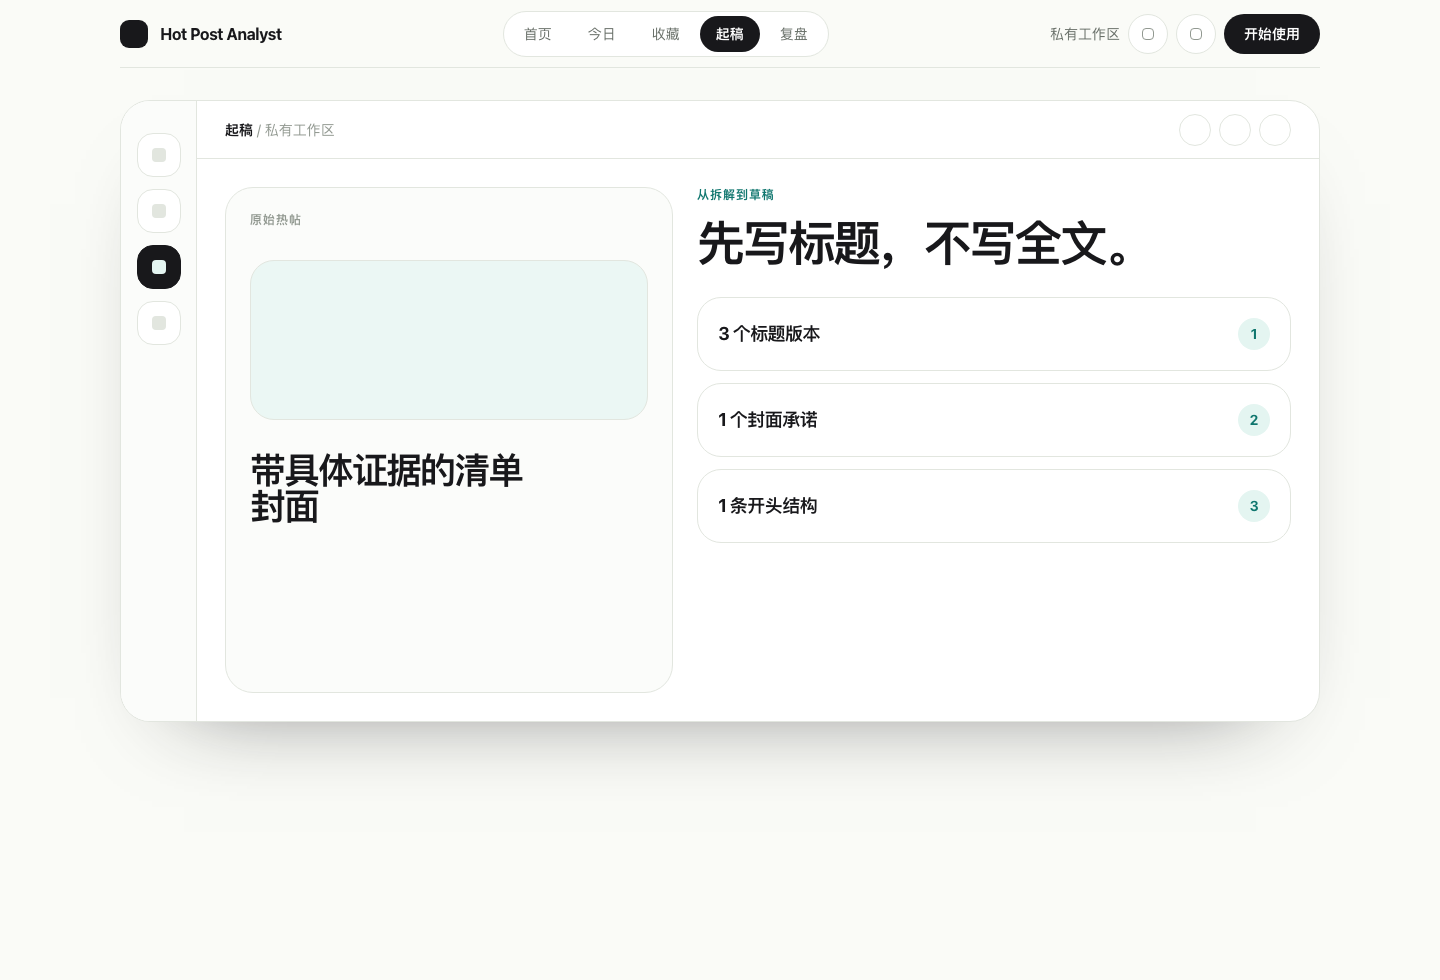
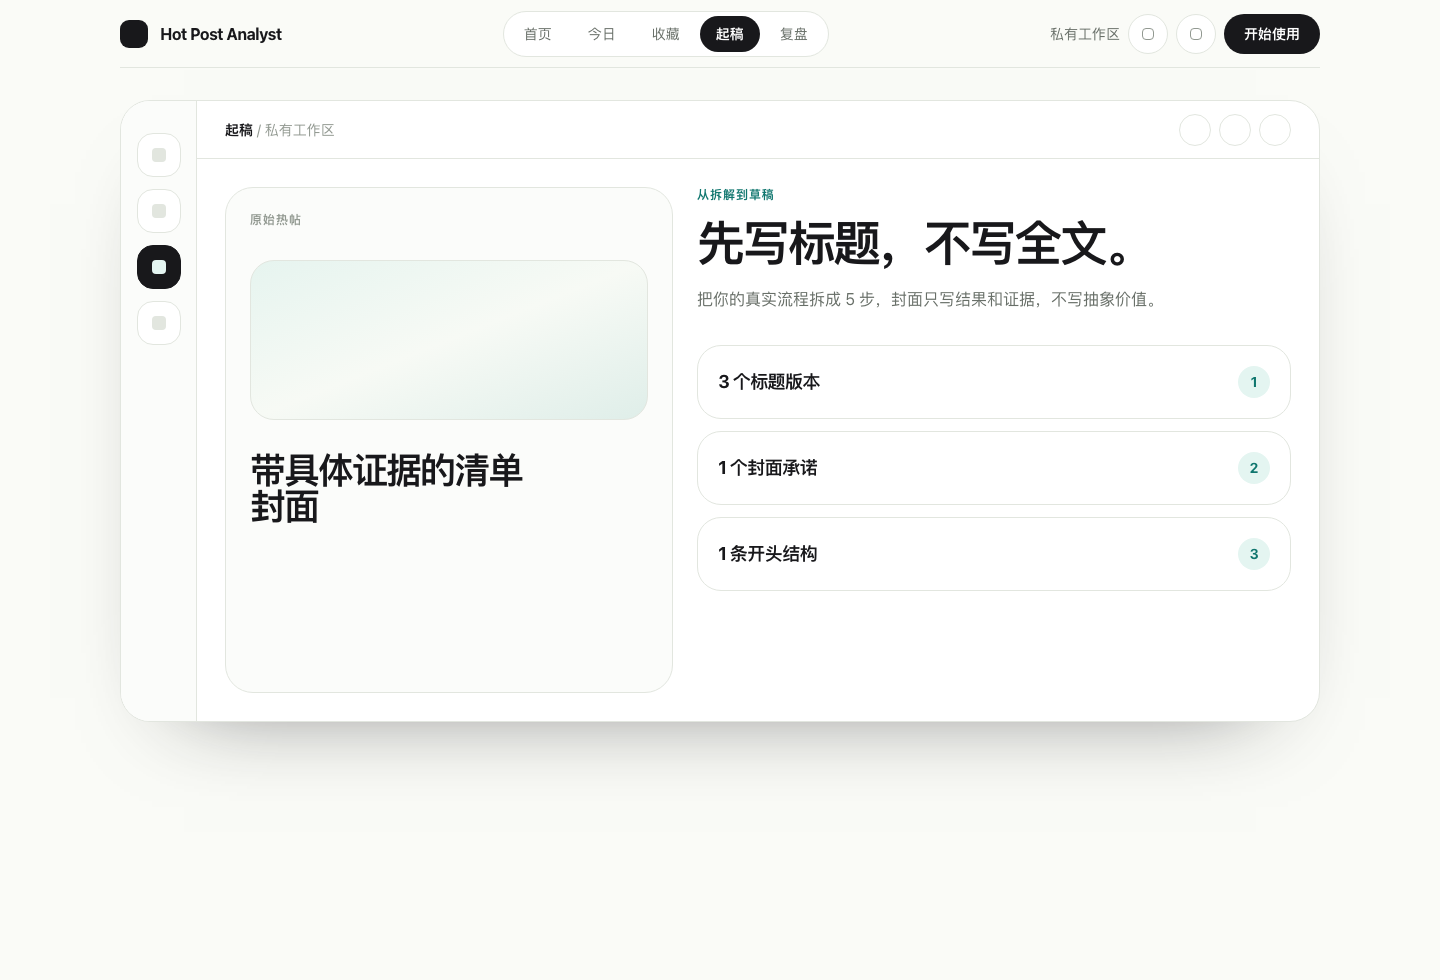
Refine saved page image detail flow

Changed region(s): [[0.5, 0.2755, 0.5938, 0.5816], [0.8438, 0.3061, 0.9062, 0.5816], [0.625, 0.2755, 0.7812, 0.3367]]

diff --git a/src/App.tsx b/src/App.tsx
@@ -1,6 +1,15 @@
 import { useMemo, useState } from 'react';
 
 type ViewId = 'landing' | 'today' | 'saved' | 'draft' | 'review';
+type SavedPost = {
+  id: string;
+  score: string;
+  title: string;
+  signal: string;
+  content: string;
+  draft: string;
+  palette: string;
+};
 
 const views: Array<{ id: ViewId; label: string }> = [
   { id: 'landing', label: '首页' },
@@ -17,9 +26,71 @@ const sidebarItems: Array<{ id: ViewId; label: string }> = [
   { id: 'review', label: '复盘' },
 ];
 
+const savedPosts: SavedPost[] = [
+  {
+    id: 'proof-list',
+    score: '86',
+    title: '带具体证据的清单封面',
+    signal: '封面先给证据，再给步骤，评论区集中追问执行细节。',
+    content: '核心不是清单本身，而是用一个可信证据让用户相信这套方法真的被跑过。',
+    draft: '把你的真实流程拆成 5 步，封面只写结果和证据，不写抽象价值。',
+    palette: 'from-[#e6f4ef] via-[#f7faf5] to-[#dfeee9]',
+  },
+  {
+    id: 'comment-loop',
+    score: '79',
+    title: '评论区反复问同一个问题',
+    signal: '同一个疑问出现多次，说明原帖没有解释清楚，适合补充型复刻。',
+    content: '从评论里提炼用户卡点，用“为什么你一直做不出来”作为开头。',
+    draft: '标题先写疑问，再用 3 个短段回答，最后给一个可执行检查项。',
+    palette: 'from-[#edf2ea] via-[#fbfcf8] to-[#e7efe3]',
+  },
+  {
+    id: 'contrast-cover',
+    score: '74',
+    title: '反差式封面标题组合',
+    signal: '标题制造反差，封面负责给场景，适合改成自己的行业版本。',
+    content: '不要复刻原话，保留“误区到正确动作”的结构就够了。',
+    draft: '写 3 组反差标题：错误动作、真实原因、替代流程。',
+    palette: 'from-[#f0f1e8] via-[#fbfaf4] to-[#e8eee6]',
+  },
+  {
+    id: 'cross-platform',
+    score: '68',
+    title: '同题多平台升温',
+    signal: '同一题材在不同平台出现，说明需求不是偶发流量。',
+    content: '先做轻量复刻，不需要完整长文，用短帖验证保存率。',
+    draft: '把原题变成“本周我会怎么做”的个人流程，先发短版本。',
+    palette: 'from-[#e7f1ef] via-[#f8faf7] to-[#eef2e8]',
+  },
+  {
+    id: 'before-after',
+    score: '82',
+    title: '前后对比封面',
+    signal: '用户能一眼看到变化，适合承载工具、流程、复盘类内容。',
+    content: '对比越具体，越容易被保存。避免“变好”这种模糊承诺。',
+    draft: '封面写前后差异，正文只解释造成变化的 3 个动作。',
+    palette: 'from-[#e5f3ec] via-[#fbfcfa] to-[#edf3e8]',
+  },
+  {
+    id: 'mistake-thread',
+    score: '71',
+    title: '错误清单型内容',
+    signal: '读者容易代入自己的问题，评论区会补充更多反例。',
+    content: '这类内容适合做成“少做什么”，不适合写成长篇教学。',
+    draft: '列出 5 个常见错误，每条只配一个修正动作。',
+    palette: 'from-[#eef4e7] via-[#fbfbf6] to-[#e6efeb]',
+  },
+];
+
 function getInitialView(): ViewId {
   const view = new URLSearchParams(window.location.search).get('view');
   return views.some((item) => item.id === view) ? (view as ViewId) : 'landing';
+}
+
+function getInitialDraft(): SavedPost {
+  const postId = new URLSearchParams(window.location.search).get('post');
+  return savedPosts.find((post) => post.id === postId) ?? savedPosts[0];
 }
 
 function IconButton({ label }: { label: string }) {
@@ -218,50 +289,116 @@ function TodayPage() {
   );
 }
 
-function SavedPage() {
-  const posts = [
-    ['86', '带具体证据的清单封面', '高收藏意图'],
-    ['79', '评论区反复问同一个问题', '强需求信号'],
-    ['74', '反差式封面标题组合', '适合改写'],
-    ['68', '同题多平台升温', '周四前验证'],
-  ];
-
+function ImageTile({ post, onClick }: { post: SavedPost; onClick: (post: SavedPost) => void }) {
   return (
-    <div className="grid gap-7 p-5 sm:p-7 lg:grid-cols-[0.62fr_1.38fr]">
-      <div>
-        <p className="text-xs font-extrabold uppercase tracking-[0.08em] text-accent">只看可行动收藏</p>
-        <h1 className="mt-4 text-[48px] font-bold leading-[0.96] tracking-[-0.055em] text-ink">收藏不是素材库。</h1>
-        <p className="mt-5 max-w-[340px] text-base leading-7 text-muted">这里不展示所有内容，只展示最可能变成下一篇草稿的信号。</p>
+    <button
+      aria-label={`打开 ${post.title}`}
+      className="group aspect-[4/3] overflow-hidden rounded-[26px] border border-transparent bg-white p-2 text-left transition duration-300 ease-out hover:-translate-y-1 hover:scale-[1.018] hover:border-accent/45 hover:shadow-[0_22px_45px_-34px_rgba(24,24,27,0.55)] focus:outline-none focus-visible:border-accent focus-visible:ring-4 focus-visible:ring-accent/10 active:translate-y-0 active:scale-[0.99]"
+      onClick={() => onClick(post)}
+      type="button"
+    >
+      <div className={`relative h-full rounded-[22px] border border-line bg-gradient-to-br ${post.palette}`}>
+        <div className="absolute left-4 top-4 rounded-full bg-white/75 px-3 py-1.5 text-xs font-bold text-accent shadow-[inset_0_1px_0_rgba(255,255,255,0.7)]">
+          {post.score}
+        </div>
+        <div className="absolute bottom-4 left-4 right-4 h-14 rounded-2xl bg-white/62 shadow-[inset_0_1px_0_rgba(255,255,255,0.7)] transition group-hover:bg-white/78" />
       </div>
+    </button>
+  );
+}
 
-      <div className="grid gap-3">
-        {posts.map(([score, title, tag]) => (
-          <article className="grid grid-cols-[56px_1fr_auto] items-center gap-4 rounded-3xl border border-line bg-[#fbfcfa] p-4" key={title}>
-            <div className="grid size-14 place-items-center rounded-2xl bg-accentSoft text-sm font-bold text-accent">{score}</div>
-            <div>
-              <p className="text-lg font-bold tracking-[-0.03em] text-ink">{title}</p>
-              <p className="mt-1 text-sm text-soft">{tag}</p>
-            </div>
-            <span className="hidden rounded-full border border-line bg-white px-3 py-2 text-xs font-semibold text-muted sm:block">可复刻</span>
-          </article>
-        ))}
+function SavedDetailOverlay({
+  post,
+  onClose,
+  onDraft,
+}: {
+  post: SavedPost;
+  onClose: () => void;
+  onDraft: (post: SavedPost) => void;
+}) {
+  return (
+    <div className="fixed inset-0 z-20 grid place-items-center bg-ink/20 px-5 py-7 backdrop-blur-sm" role="dialog" aria-modal="true">
+      <div className="relative grid w-[min(1120px,calc(100vw-40px))] gap-0 overflow-hidden rounded-[34px] border border-white/40 bg-white shadow-[0_42px_90px_-52px_rgba(24,24,27,0.76)] md:grid-cols-[0.95fr_1fr_0.9fr]">
+        <button
+          aria-label="关闭"
+          className="absolute right-5 top-5 grid size-10 place-items-center rounded-full border border-line bg-white text-xl leading-none text-muted transition hover:text-ink active:translate-y-px"
+          onClick={onClose}
+          type="button"
+        >
+          ×
+        </button>
+
+        <div className="p-5 md:p-7">
+          <div className={`flex aspect-[4/5] flex-col justify-between rounded-[28px] border border-line bg-gradient-to-br p-6 ${post.palette}`}>
+            <span className="w-fit rounded-full bg-white/75 px-3 py-2 text-xs font-bold text-accent">评分 {post.score}</span>
+            <h2 className="max-w-[260px] text-[34px] font-bold leading-none tracking-[-0.055em] text-ink">{post.title}</h2>
+          </div>
+        </div>
+
+        <div className="border-y border-line p-6 md:border-x md:border-y-0 md:p-8">
+          <p className="text-xs font-extrabold uppercase tracking-[0.08em] text-accent">内容拆解</p>
+          <h3 className="mt-5 text-[38px] font-bold leading-none tracking-[-0.055em] text-ink">为什么值得复刻</h3>
+          <p className="mt-6 text-base leading-7 text-muted">{post.signal}</p>
+          <div className="mt-8 rounded-3xl border border-line bg-[#fbfcfa] p-5">
+            <p className="text-xs font-bold uppercase tracking-[0.08em] text-soft">核心结构</p>
+            <p className="mt-3 text-lg font-bold leading-7 tracking-[-0.03em] text-ink">{post.content}</p>
+          </div>
+        </div>
+
+        <button
+          aria-label={`进入 ${post.title} 的起稿页`}
+          className="group flex flex-col justify-between bg-ink p-6 text-left text-white transition hover:bg-[#202024] active:scale-[0.995] md:p-8"
+          onClick={() => onDraft(post)}
+          type="button"
+        >
+          <div>
+            <p className="text-xs font-bold uppercase tracking-[0.08em] text-white/45">草稿</p>
+            <h3 className="mt-5 text-[36px] font-bold leading-none tracking-[-0.055em]">先生成一版标题。</h3>
+            <p className="mt-6 text-base leading-7 text-white/70">{post.draft}</p>
+          </div>
+          <div className="mt-10 flex items-center justify-between border-t border-white/15 pt-5">
+            <span className="text-lg font-bold tracking-[-0.03em]">进入起稿页</span>
+            <span className="grid size-12 place-items-center rounded-full bg-white text-2xl text-ink transition group-hover:translate-x-1">&gt;</span>
+          </div>
+        </button>
       </div>
     </div>
   );
 }
 
-function DraftPage() {
+function SavedPage({ onDraft }: { onDraft: (post: SavedPost) => void }) {
+  const detailFromQuery = new URLSearchParams(window.location.search).get('detail');
+  const [selectedPost, setSelectedPost] = useState<SavedPost | null>(
+    detailFromQuery ? savedPosts.find((post) => post.id === detailFromQuery) ?? null : null,
+  );
+
+  return (
+    <>
+      <div className="p-5 sm:p-7">
+        <div className="grid grid-cols-2 gap-4 md:grid-cols-3 xl:grid-cols-4">
+          {savedPosts.map((post) => (
+            <ImageTile key={post.id} post={post} onClick={setSelectedPost} />
+          ))}
+        </div>
+      </div>
+      {selectedPost ? <SavedDetailOverlay onClose={() => setSelectedPost(null)} onDraft={onDraft} post={selectedPost} /> : null}
+    </>
+  );
+}
+
+function DraftPage({ post = savedPosts[0] }: { post?: SavedPost }) {
   return (
     <div className="grid gap-6 p-5 sm:p-7 lg:grid-cols-[0.86fr_1.14fr]">
       <div className="rounded-[28px] border border-line bg-[#fbfcfa] p-6">
         <p className="text-xs font-bold uppercase tracking-[0.08em] text-soft">原始热帖</p>
-        <div className="mt-8 h-40 rounded-[24px] border border-line bg-accentSoft/70" />
-        <h2 className="mt-8 max-w-[280px] text-4xl font-bold leading-none tracking-[-0.055em] text-ink">带具体证据的清单封面</h2>
+        <div className={`mt-8 h-40 rounded-[24px] border border-line bg-gradient-to-br ${post.palette}`} />
+        <h2 className="mt-8 max-w-[280px] text-4xl font-bold leading-none tracking-[-0.055em] text-ink">{post.title}</h2>
       </div>
 
       <div>
         <p className="text-xs font-extrabold uppercase tracking-[0.08em] text-accent">从拆解到草稿</p>
         <h1 className="mt-4 text-[48px] font-bold leading-[0.96] tracking-[-0.055em] text-ink">先写标题，不写全文。</h1>
+        <p className="mt-5 max-w-[520px] text-base leading-7 text-muted">{post.draft}</p>
         <div className="mt-8 grid gap-3">
           {['3 个标题版本', '1 个封面承诺', '1 条开头结构'].map((item, index) => (
             <div className="flex items-center justify-between rounded-3xl border border-line bg-white p-5" key={item}>
@@ -304,13 +441,23 @@ function ReviewPage() {
   );
 }
 
-function ProductPage({ activeView, onViewChange }: { activeView: Exclude<ViewId, 'landing'>; onViewChange: (view: ViewId) => void }) {
+function ProductPage({
+  activeView,
+  onViewChange,
+  selectedDraft,
+  onDraft,
+}: {
+  activeView: Exclude<ViewId, 'landing'>;
+  onViewChange: (view: ViewId) => void;
+  selectedDraft?: SavedPost;
+  onDraft: (post: SavedPost) => void;
+}) {
   const content = useMemo(() => {
-    if (activeView === 'saved') return <SavedPage />;
-    if (activeView === 'draft') return <DraftPage />;
+    if (activeView === 'saved') return <SavedPage onDraft={onDraft} />;
+    if (activeView === 'draft') return <DraftPage post={selectedDraft} />;
     if (activeView === 'review') return <ReviewPage />;
     return <TodayPage />;
-  }, [activeView]);
+  }, [activeView, onDraft, selectedDraft]);
 
   return (
     <section className="py-8">
@@ -323,6 +470,7 @@ function ProductPage({ activeView, onViewChange }: { activeView: Exclude<ViewId,
 
 export default function App() {
   const [activeView, setActiveView] = useState<ViewId>(getInitialView);
+  const [selectedDraft, setSelectedDraft] = useState<SavedPost>(getInitialDraft);
 
   function handleViewChange(view: ViewId) {
     setActiveView(view);
@@ -330,11 +478,21 @@ export default function App() {
     window.history.replaceState(null, '', nextUrl);
   }
 
+  function handleDraftFromSaved(post: SavedPost) {
+    setSelectedDraft(post);
+    setActiveView('draft');
+    window.history.replaceState(null, '', `${window.location.pathname}?view=draft&post=${post.id}`);
+  }
+
   return (
     <main className="min-h-[100dvh] bg-canvas">
       <div className="mx-auto grid min-h-[100dvh] w-[min(1200px,calc(100vw-36px))] grid-rows-[68px_1fr]">
         <TopNav activeView={activeView} onViewChange={handleViewChange} />
-        {activeView === 'landing' ? <LandingPage /> : <ProductPage activeView={activeView} onViewChange={handleViewChange} />}
+        {activeView === 'landing' ? (
+          <LandingPage />
+        ) : (
+          <ProductPage activeView={activeView} onDraft={handleDraftFromSaved} onViewChange={handleViewChange} selectedDraft={selectedDraft} />
+        )}
       </div>
     </main>
   );
